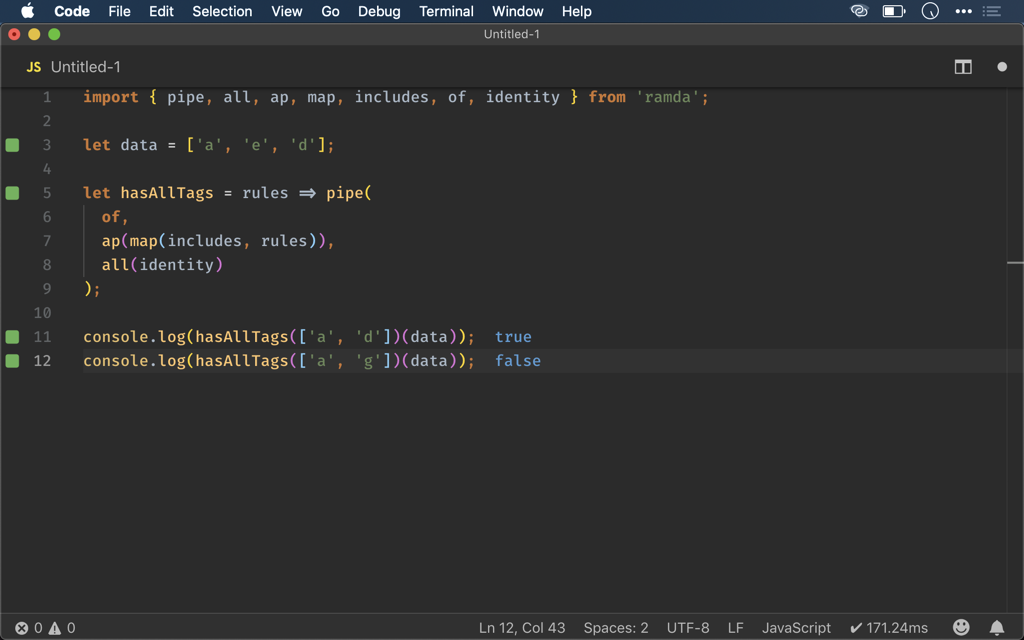
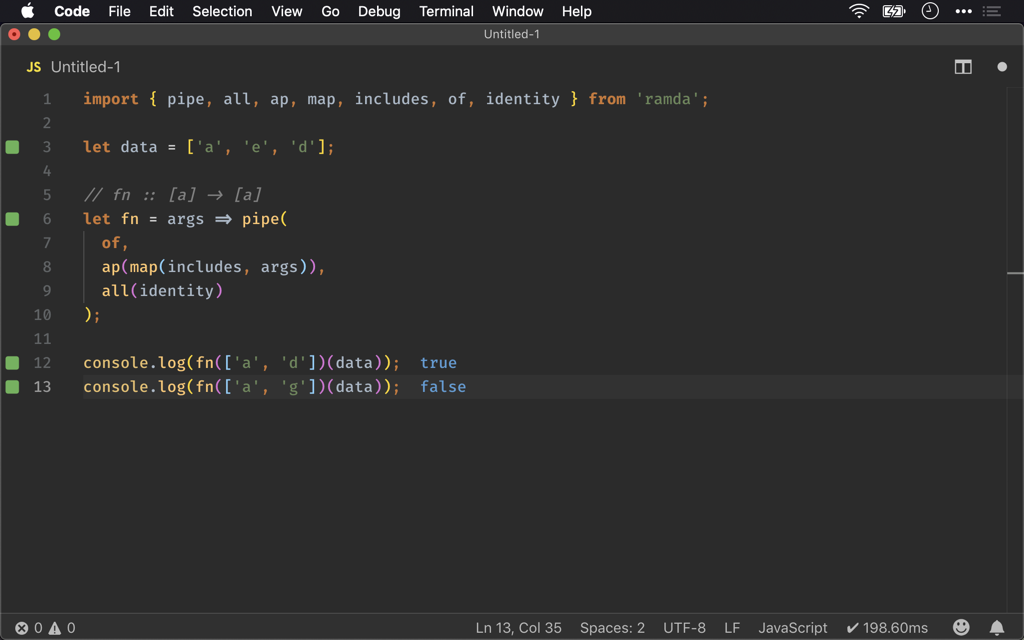
Ramda 之 ap()

diff --git a/source/_posts/ramda/ap.md b/source/_posts/ramda/ap.md
@@ -9,7 +9,7 @@ tags:
   - Ramda/includes
   - Ramda/identity
 feature: images/feature/ramda.png
-date: 2019-05-08 11:23:43
+date: 2019-05-15 01:23:43
 ---
 實務上常遇到一個 Array 中所有 Function，必須對另外一個 Array 中所有 Data 都執行過一次，此時 Ramda 的 `ap()` 就是我們的好幫手。
 
@@ -26,18 +26,19 @@ Ramda 0.26.1
 ```javascript
 let data = ['a', 'e', 'd'];
 
-let hasAllTags = rules => tags => {
+// fn :: [a] -> [a]
+let fn = args => arr => {
   let result = true;
 
-  for (let x of rules) {
-    result = result && tags.some(y => y === x);
+  for (let x of arr) {
+    result = result && arr.some(y => y === x);
   }
 
   return result;
 };
 
-console.log(hasAllTags(['a', 'd'])(data));
-console.log(hasAllTags(['a', 'g'])(data));
+console.log(fn(['a', 'd'])(data));
+console.log(fn(['a', 'g'])(data));
 ```
 
 條件為 array 必須包含所有 element，若符合條件則回傳 `true`，否則回傳 `false`。
@@ -57,14 +58,15 @@ import { pipe, all, ap, map, includes, of, identity } from 'ramda';
 
 let data = ['a', 'e', 'd'];
 
-let hasAllTags = rules => pipe(
+// fn :: [a] -> [a]
+let fn = args => pipe(
   of,
-  ap(map(includes, rules)),
+  ap(map(includes, args)),
   all(identity)
 );
 
-console.log(hasAllTags(['a', 'd'])(data));
-console.log(hasAllTags(['a', 'g'])(data));
+console.log(fn(['a', 'd'])(data));
+console.log(fn(['a', 'g'])(data));
 ```
 
 其實由 imperative 作法，已經可以看出一些端倪：
